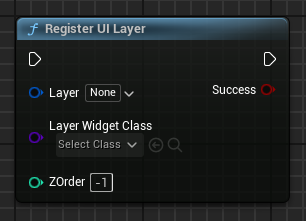
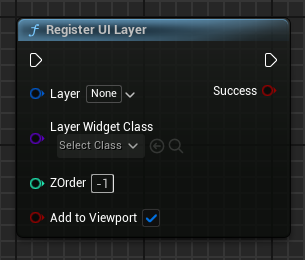
updated ExtroneUIManager Function Reference page to reflect new update

diff --git a/content/plugins/extroneuimanager/documentation/functions/index.md b/content/plugins/extroneuimanager/documentation/functions/index.md
@@ -120,6 +120,7 @@ Create and Register new Layer with provided Widget Class
 |Layer|GameplayTag that should be used to Identify this Layer|
 |LayerWidgetClass|Base Widget that the screens will be pushed to|
 |ZOrder|ZOrder of the Layer|
+|bAddToViewport|Should the Created Layer Widget be added to the Viewport|
 
 |Out|Description|
 |---|-----------|
@@ -135,6 +136,7 @@ Register new Layer with provided Widget
 |Layer|GameplayTag that should be used to Identify this Layer|
 |LayerWidget|Base Widget that the screens will be pushed to|
 |ZOrder|ZOrder of the Layer|
+|bAddToViewport|Should the Created Layer Widget be added to the Viewport|
 
 |Out|Description|
 |---|-----------|
